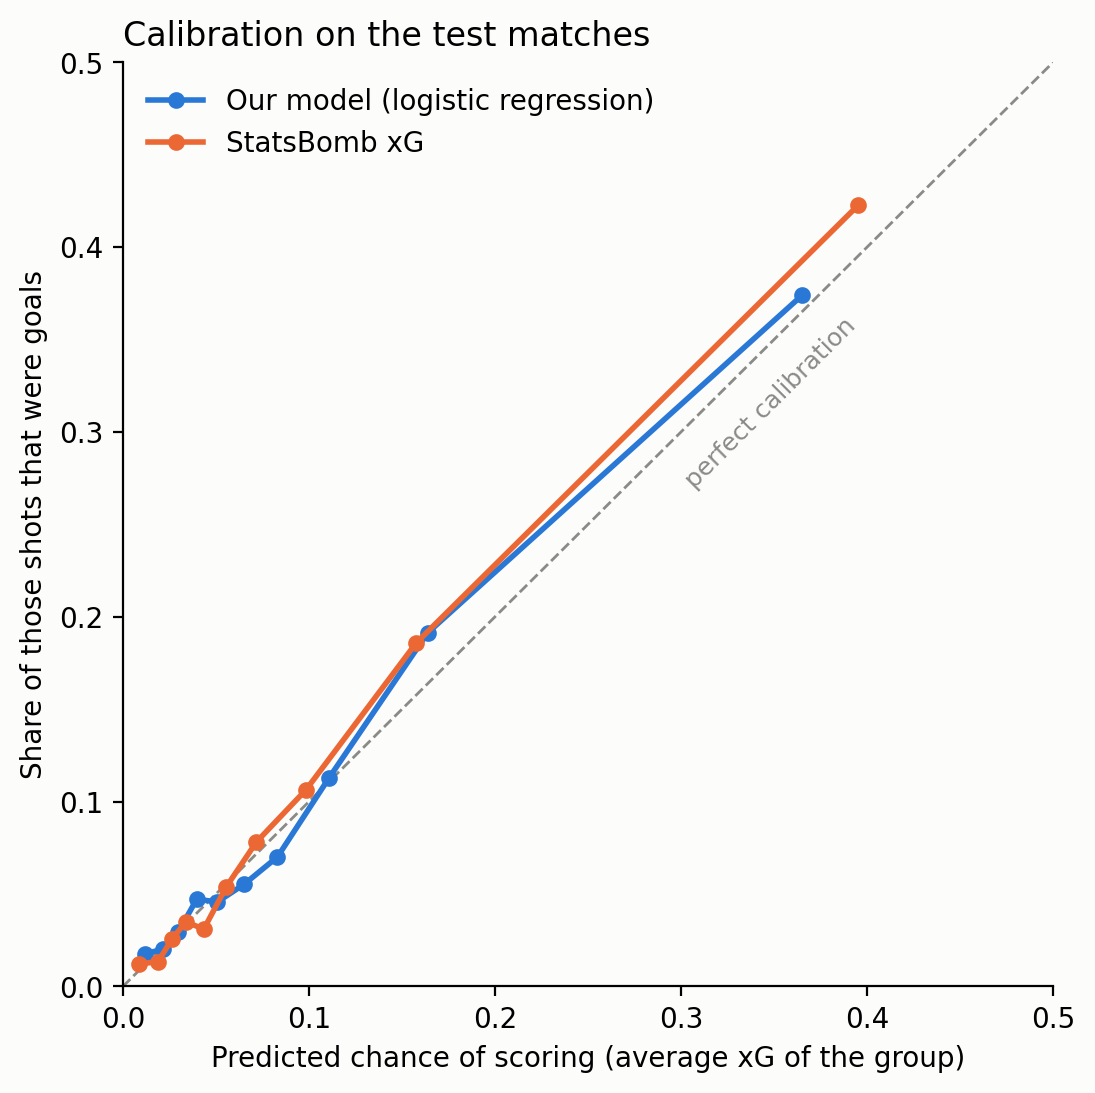
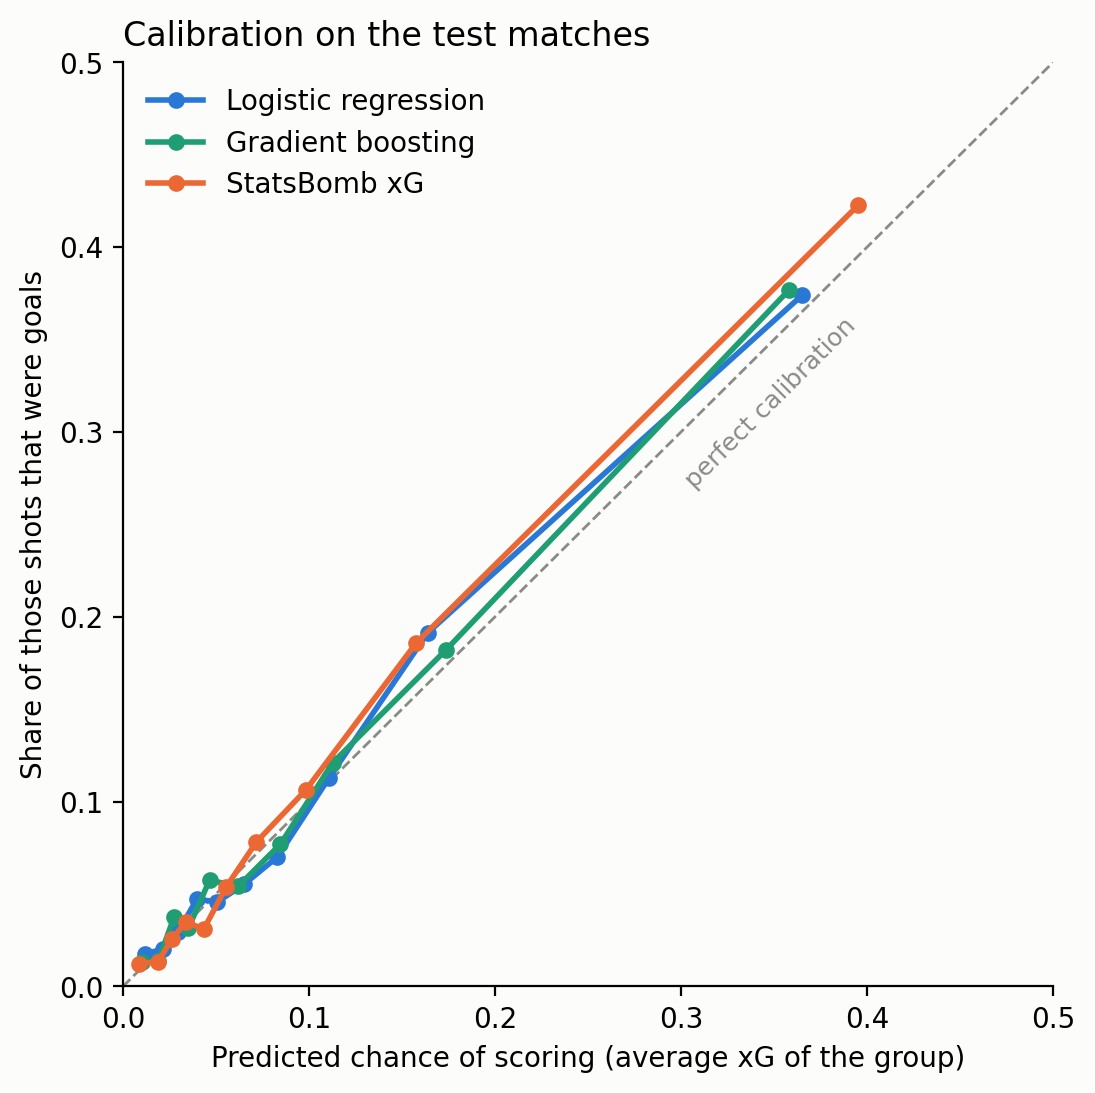
Compare logistic regression and gradient boosting

diff --git a/scripts/07_evaluate_xg.py b/scripts/07_evaluate_xg.py
@@ -1,5 +1,7 @@
-"""Evaluate the first xG model against two references, and draw its calibration.
+"""Compare our two xG models with two references, and draw their calibration.
 
+Models: a logistic regression and gradient boosting, trained on the same
+matches and scored on the same test matches.
 References: a model that gives every shot the average goal rate of the
 training set (it knows nothing about the shot), and StatsBomb's own xG (a
 professional model that also sees where the keeper and defenders stand).
@@ -18,6 +20,7 @@ import pandas as pd
 from sklearn.calibration import calibration_curve
 
 from football_ai.xg import (
+    build_boosting_model,
     build_logistic_model,
     evaluate,
     load_shots,
@@ -39,7 +42,8 @@ def draw_calibration(test_set: pd.DataFrame) -> None:
     ax.plot([0, 1], [0, 1], linestyle="--", color="#8a8a86", linewidth=1)
 
     for column, label, color in [
-        ("xg", "Our model (logistic regression)", "#2a78d6"),
+        ("logistic_xg", "Logistic regression", "#2a78d6"),
+        ("boosting_xg", "Gradient boosting", "#1f9e74"),
         ("statsbomb_xg", "StatsBomb xG", "#eb6834"),
     ]:
         # 10 groups with the same number of shots in each
@@ -68,19 +72,25 @@ def main() -> None:
         shots = load_shots(con)
 
     train_set, test_set = split_by_match(shots)
-    model = train(build_logistic_model(), train_set)
+    logistic = train(build_logistic_model(), train_set)
+    boosting = train(build_boosting_model(), train_set)
     test_set = test_set.assign(
-        xg=predict_xg(model, test_set),
+        logistic_xg=predict_xg(logistic, test_set),
+        boosting_xg=predict_xg(boosting, test_set),
         # Knows nothing about the shot: same value for everyone
         baseline=train_set["is_goal"].mean(),
     )
 
     scores = pd.DataFrame({
         "baseline (average rate)": evaluate(test_set["is_goal"], test_set["baseline"]),
-        "our model": evaluate(test_set["is_goal"], test_set["xg"]),
+        "logistic regression": evaluate(test_set["is_goal"], test_set["logistic_xg"]),
+        "gradient boosting": evaluate(test_set["is_goal"], test_set["boosting_xg"]),
         "StatsBomb xG": evaluate(test_set["is_goal"], test_set["statsbomb_xg"]),
     }).T
     print(f"Test set: {len(test_set):,} shots from {test_set['match_id'].nunique()} matches")
+    # Early stopping decides this, not us
+    print(f"Gradient boosting stopped after {boosting.named_steps['model'].n_iter_} trees")
+    print()
     print(scores.round(4).to_string())
     print()
     draw_calibration(test_set)
